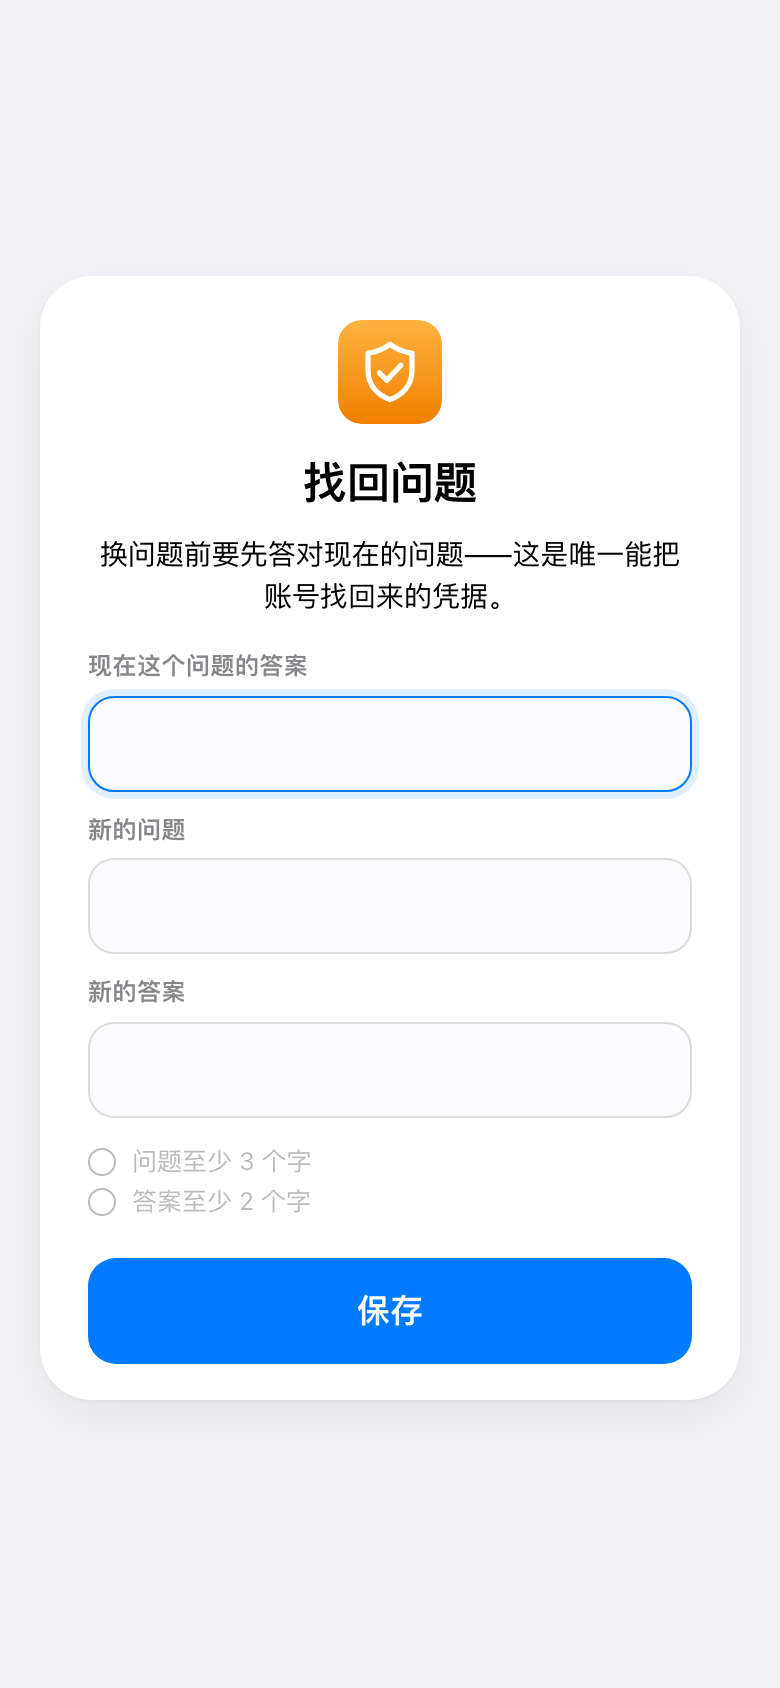
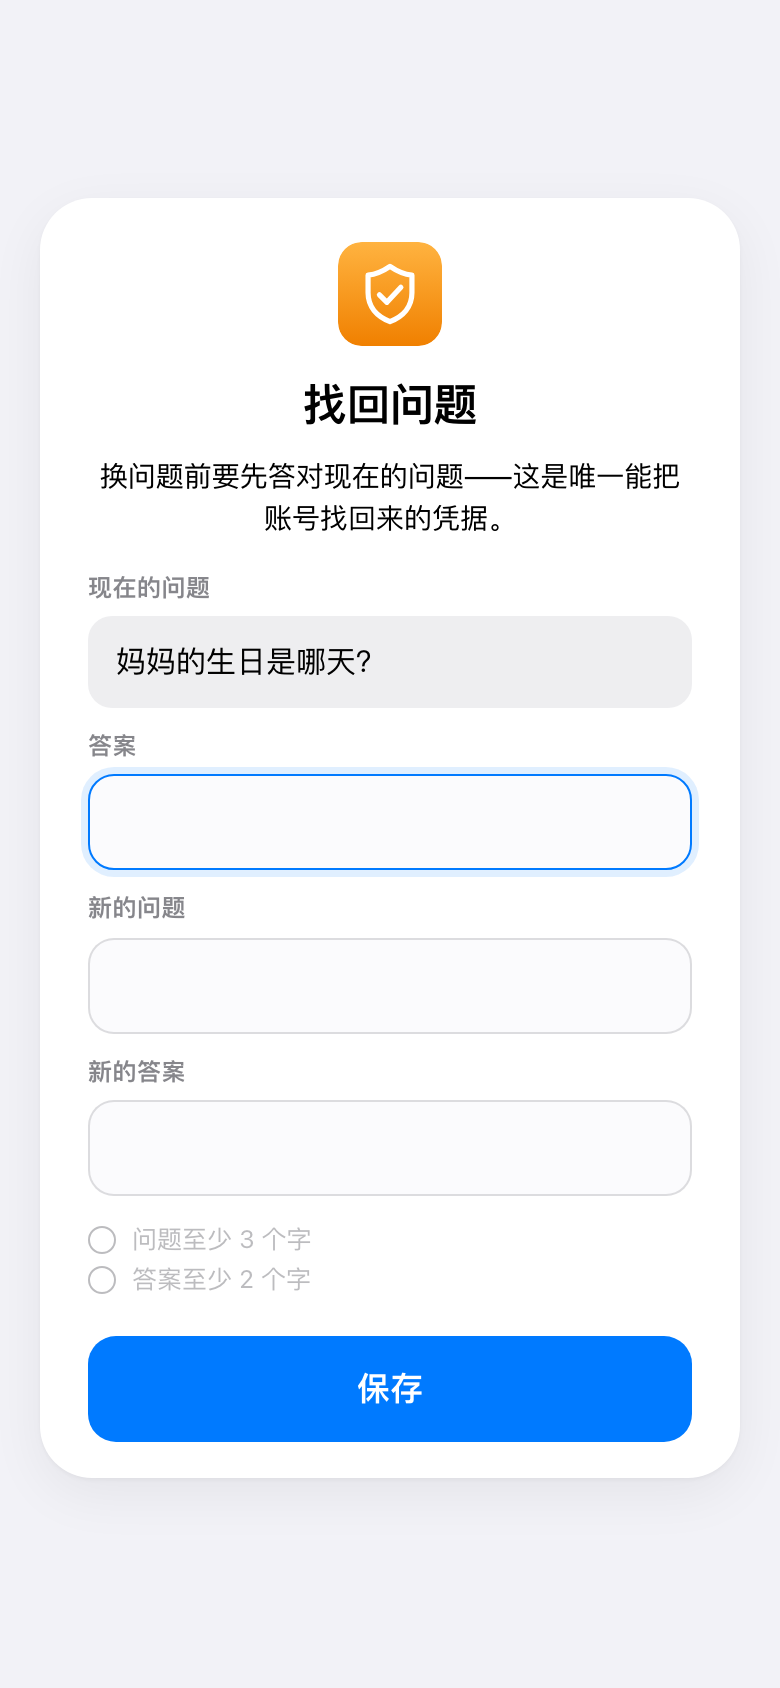
feat(web): 换密保时把现在的问题显示出来
上一版只加了「现在这个问题的答案」一个输入框，屏幕上没有问题本身——用户不知道要答什么，
等于让人同时回忆两件事。现在这一屏按顺序是：现在的问题（原文，只读面板）→ 答案 →
新的问题 → 新的答案 → 两条长度规则。

- `account_json()` 多返回 `question` 原文（答案永远不出这个方法，库里只有哈希）；
  `has_question` 保留，调用方要布尔值时有现成的。
- `/v1/auth/me` 因此带着问题文本，前端不必再为「看一下我的问题」多发一次匿名请求。
- 保存成功后把新问题写回 `me.account.question`，不刷新页面再进这一屏也是对的。
- 五语言补 `currentQuestionLabel`；`oldAnswerLabel` 收短为「答案」，问题已经在上面了。

验收：223 → 225（`/v1/auth/me` 带不带问题原文，有 / 无 各一条），225/225 通过。
顺带修出图脚本：换密保那一屏没有「取消」，脚本拍完要显式回主屏，否则后一张会拍成同一屏。

diff --git a/server/web/app.js b/server/web/app.js
@@ -68,7 +68,7 @@ const TEXTS = {
       mismatch: '两次输入的密码不一样。',
       needQuestion: '问题至少 3 个字，写一个只有你知道答案的。', needAnswer: '答案至少 2 个字——忘记密码时就靠它。',
       ruleQuestion: '问题至少 3 个字', ruleAnswer: '答案至少 2 个字',
-      oldAnswerLabel: '现在这个问题的答案', needOldAnswer: '先答对现在的问题，才能换成新的。',
+      currentQuestionLabel: '现在的问题', oldAnswerLabel: '答案', needOldAnswer: '先答对现在的问题，才能换成新的。',
       newQuestionLabel: '新的问题', newAnswerLabel: '新的答案',
       badAnswer: '答案不对。', recoverLocked: '答错次数太多，过 15 分钟再试。',
       noAccount: '这个邮箱没有注册过。',
@@ -214,7 +214,7 @@ const TEXTS = {
       mismatch: 'The two passwords are not the same.',
       needQuestion: 'At least three characters — a question only you can answer.', needAnswer: 'At least two characters — this is the only way back in.',
       ruleQuestion: 'Three characters or more', ruleAnswer: 'Two characters or more',
-      oldAnswerLabel: 'The answer to your current question',
+      currentQuestionLabel: 'The question now', oldAnswerLabel: 'Your answer',
       newQuestionLabel: 'The new question', newAnswerLabel: 'The new answer',
       needOldAnswer: 'Answer the current question first, then you can replace it.',
       badAnswer: 'That is not the answer.', recoverLocked: 'Too many wrong answers. Try again in fifteen minutes.',
@@ -361,7 +361,7 @@ const TEXTS = {
       mismatch: 'Пароли не совпадают.',
       needQuestion: 'Не короче 3 символов — вопрос, ответ на который знаете только вы.', needAnswer: 'Не короче 2 символов — на нём всё держится.',
       ruleQuestion: 'Не короче 3 символов', ruleAnswer: 'Не короче 2 символов',
-      oldAnswerLabel: 'Ответ на текущий вопрос',
+      currentQuestionLabel: 'Текущий вопрос', oldAnswerLabel: 'Ваш ответ',
       newQuestionLabel: 'Новый вопрос', newAnswerLabel: 'Новый ответ',
       needOldAnswer: 'Сначала ответьте на текущий вопрос, потом можно менять.',
       badAnswer: 'Ответ неверный.', recoverLocked: 'Слишком много неверных ответов. Через пятнадцать минут.',
@@ -463,7 +463,7 @@ const TEXTS = {
       mismatch: 'Паролі не збігаються.',
       needQuestion: 'Не коротше 3 символів — питання, відповідь на яке знаєте тільки ви.', needAnswer: 'Не коротше 2 символів — на ній усе тримається.',
       ruleQuestion: 'Не коротше 3 символів', ruleAnswer: 'Не коротше 2 символів',
-      oldAnswerLabel: 'Відповідь на поточне питання',
+      currentQuestionLabel: 'Поточне питання', oldAnswerLabel: 'Ваша відповідь',
       newQuestionLabel: 'Нове питання', newAnswerLabel: 'Нова відповідь',
       needOldAnswer: 'Спершу дайте відповідь на поточне питання, потім можна змінювати.',
       badAnswer: 'Відповідь неправильна.', recoverLocked: 'Забагато неправильних відповідей. За пʼятнадцять хвилин.',
@@ -565,7 +565,7 @@ const TEXTS = {
       mismatch: 'Құпиясөздер сәйкес емес.',
       needQuestion: 'Кемінде 3 таңба — жауабын тек сіз білетін сұрақ.', needAnswer: 'Кемінде 2 таңба — бәрі соған тіреледі.',
       ruleQuestion: 'Кемінде 3 таңба', ruleAnswer: 'Кемінде 2 таңба',
-      oldAnswerLabel: 'Қазіргі сұрақтың жауабы',
+      currentQuestionLabel: 'Қазіргі сұрақ', oldAnswerLabel: 'Жауабыңыз',
       newQuestionLabel: 'Жаңа сұрақ', newAnswerLabel: 'Жаңа жауап',
       needOldAnswer: 'Алдымен қазіргі сұраққа жауап беріңіз, содан кейін ауыстыруға болады.',
       badAnswer: 'Жауап қате.', recoverLocked: 'Қате жауап тым көп. Он бес минуттан кейін.',
@@ -813,7 +813,11 @@ function showAuth(mode, context) {
   };
   // Replacing a question asks for the old answer first, and the hint has to say so — otherwise the
   // extra field reads like the page doubting the parent rather than protecting the account.
-  const hasQuestion = !!(me && me.account && me.account.has_question);
+  // The text of the question, not just whether there is one: the replace screen has to print it,
+  // because "answer the current question" with no question on screen asks the parent to remember
+  // two things at once.
+  const oldQuestion = (me && me.account && me.account.question) || '';
+  const hasQuestion = !!oldQuestion;
   if (authMode === 'question' && hasQuestion) hints.question = a.hintSetQuestionFirst;
 
   // The two fields are the *new* pair when there is an old one above them; leaving them labelled
@@ -865,6 +869,8 @@ function showAuth(mode, context) {
   // After applyAuthMode: that call shows every field whose `data-modes` names this screen, and the
   // old-answer field is only wanted when there is a question to replace.
   $('#auth-old-wrap').hidden = !(authMode === 'question' && hasQuestion);
+  $('#auth-old-q-wrap').hidden = !(authMode === 'question' && hasQuestion);
+  if (hasQuestion) $('#auth-old-question').textContent = oldQuestion;
   if (authMode === 'in' || authMode === 'change' || authMode === 'recover2'
       || authMode === 'question') {
     challenge = null;                      // nothing is being registered, so no nonce to fetch
@@ -1081,7 +1087,10 @@ async function submitAuth(event) {
     if (authMode === 'question') {
       // The account has one now, and the settings row and the next visit to this screen both read
       // that flag — without this line the old-answer field would stay hidden until a reload.
-      if (me && me.account) me.account.has_question = true;
+      if (me && me.account) {
+        me.account.has_question = true;
+        me.account.question = result.question || '';
+      }
       toast(T().auth.questionSaved);
       showMain();
       await go('settings');

diff --git a/server/web/index.html b/server/web/index.html
@@ -79,7 +79,15 @@
     <!-- Replacing a question is a credential swap, not a preference: without the old answer an
          unlocked phone could point the question at something only its holder knows and shut the
          owner out of the only way back in. Shown only when the account already has one; the server
-         demands it too (`need-old-answer`), so this field is not decoration. -->
+         demands it too (`need-old-answer`), so this field is not decoration.
+
+         The question itself is printed above the box. Asking for "the answer to the current
+         question" without showing the question is asking the parent to remember two things at
+         once — the text comes from `account.question` in `/v1/auth/me`. -->
+    <div class="q-now" data-modes="question" id="auth-old-q-wrap" hidden>
+      <span class="field-label" data-i18n="auth.currentQuestionLabel"></span>
+      <p id="auth-old-question"></p>
+    </div>
     <label class="field" data-modes="question" id="auth-old-wrap" hidden>
       <span class="field-label" data-i18n="auth.oldAnswerLabel"></span>
       <input id="auth-old-answer" name="old_answer" type="text" maxlength="100"

diff --git a/server/web/app.css b/server/web/app.css
@@ -94,6 +94,21 @@ body {
 .pair-card .muted { margin: 0 0 22px; font-size: 14px; line-height: 1.5; }
 
 .field { display: block; text-align: left; margin-bottom: 6px; }
+
+/* The question being replaced, printed as plain text above the answer box: the answer is useless
+   without the question next to it. Same label as a field, but the value is not editable, so it
+   gets a quiet panel instead of an input's border. */
+.q-now { display: block; text-align: left; margin-bottom: 10px; }
+.q-now p {
+  margin: 0;
+  padding: 12px 14px;
+  border-radius: 12px;
+  background: var(--fill, rgba(0, 0, 0, 0.04));
+  font-size: 15px;
+  line-height: 1.45;
+  color: var(--label);
+  word-break: break-word;
+}
 .field-label {
   display: block;
   font-size: 12px;

diff --git a/server/tools/acceptance.py b/server/tools/acceptance.py
@@ -1106,6 +1106,8 @@ def main(argv: list[str] | None = None) -> int:
         check("and it says it has none",
               status == 200 and (body.get("account") or {}).get("has_question") is False,
               f"{status} {body}")
+        check("with no question text to show either",
+              (body.get("account") or {}).get("question") == "", f"{status} {body}")
         status, body = late.call("POST", "/v1/auth/question/set", {
             "question": "家里第一只猫叫什么？", "answer": "小花"})
         check("so the first question needs no old answer",
@@ -1132,6 +1134,11 @@ def main(argv: list[str] | None = None) -> int:
         status, body = rules.call("GET", "/v1/auth/me")
         check("and the account says it now has one",
               status == 200 and (body.get("account") or {}).get("has_question") is True,
+              f"{status} {body}")
+        # The replace screen prints it: "answer the current question" without the question on
+        # screen is asking the parent to remember two things at once.
+        check("and hands the question text back to the page",
+              (body.get("account") or {}).get("question") == "家里第一只狗叫什么？",
               f"{status} {body}")
         status, body = rules.call("POST", "/v1/auth/question",
                                   {"email": "rules@example.com"})

diff --git a/server/app/auth.py b/server/app/auth.py
@@ -548,15 +548,21 @@ class Accounts:
         }
 
     def account_json(self, account_id: str) -> dict:
-        """What the page is told about the account. `has_question` decides whether the recovery form
-        asks for the old answer before it shows the new one — the answer itself never leaves here."""
+        """What the page is told about the account.
+
+        `question` is the text the parent typed, and it is here so the replace screen can show what
+        is being replaced — asking for "the answer to the current question" without printing the
+        question is asking someone to remember two things at once. The answer never leaves this
+        method; only its hash is stored, and `has_question` stays for callers that want a boolean.
+        """
         row = self.db.query_one(
             "SELECT id, email, created_at, recovery_question FROM account WHERE id = ?",
             (account_id,))
         if row is None:
             raise GradeError("not-signed-in", 401)
+        question = row.get("recovery_question") or ""
         return {"id": row["id"], "email": row["email"], "created_at": row.get("created_at"),
-                "has_question": bool(row.get("recovery_question"))}
+                "has_question": bool(question), "question": question}
 
     # ---- devices ----
 
